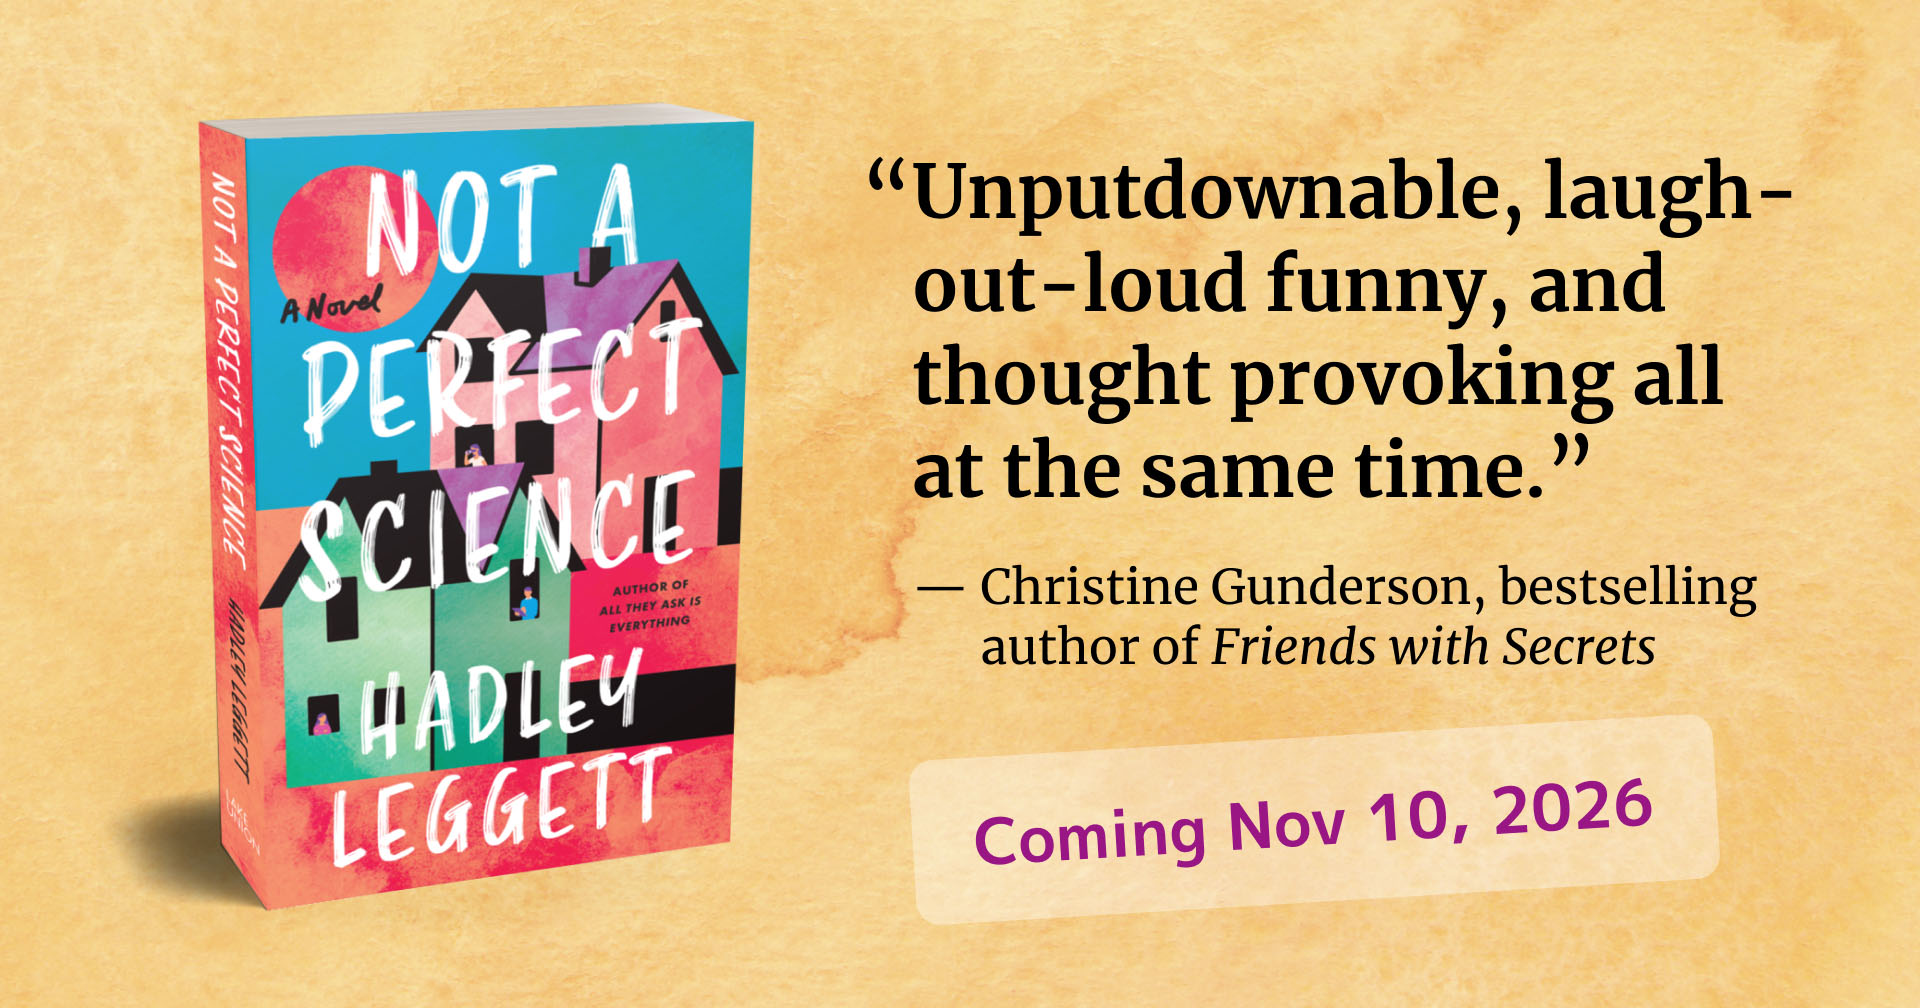
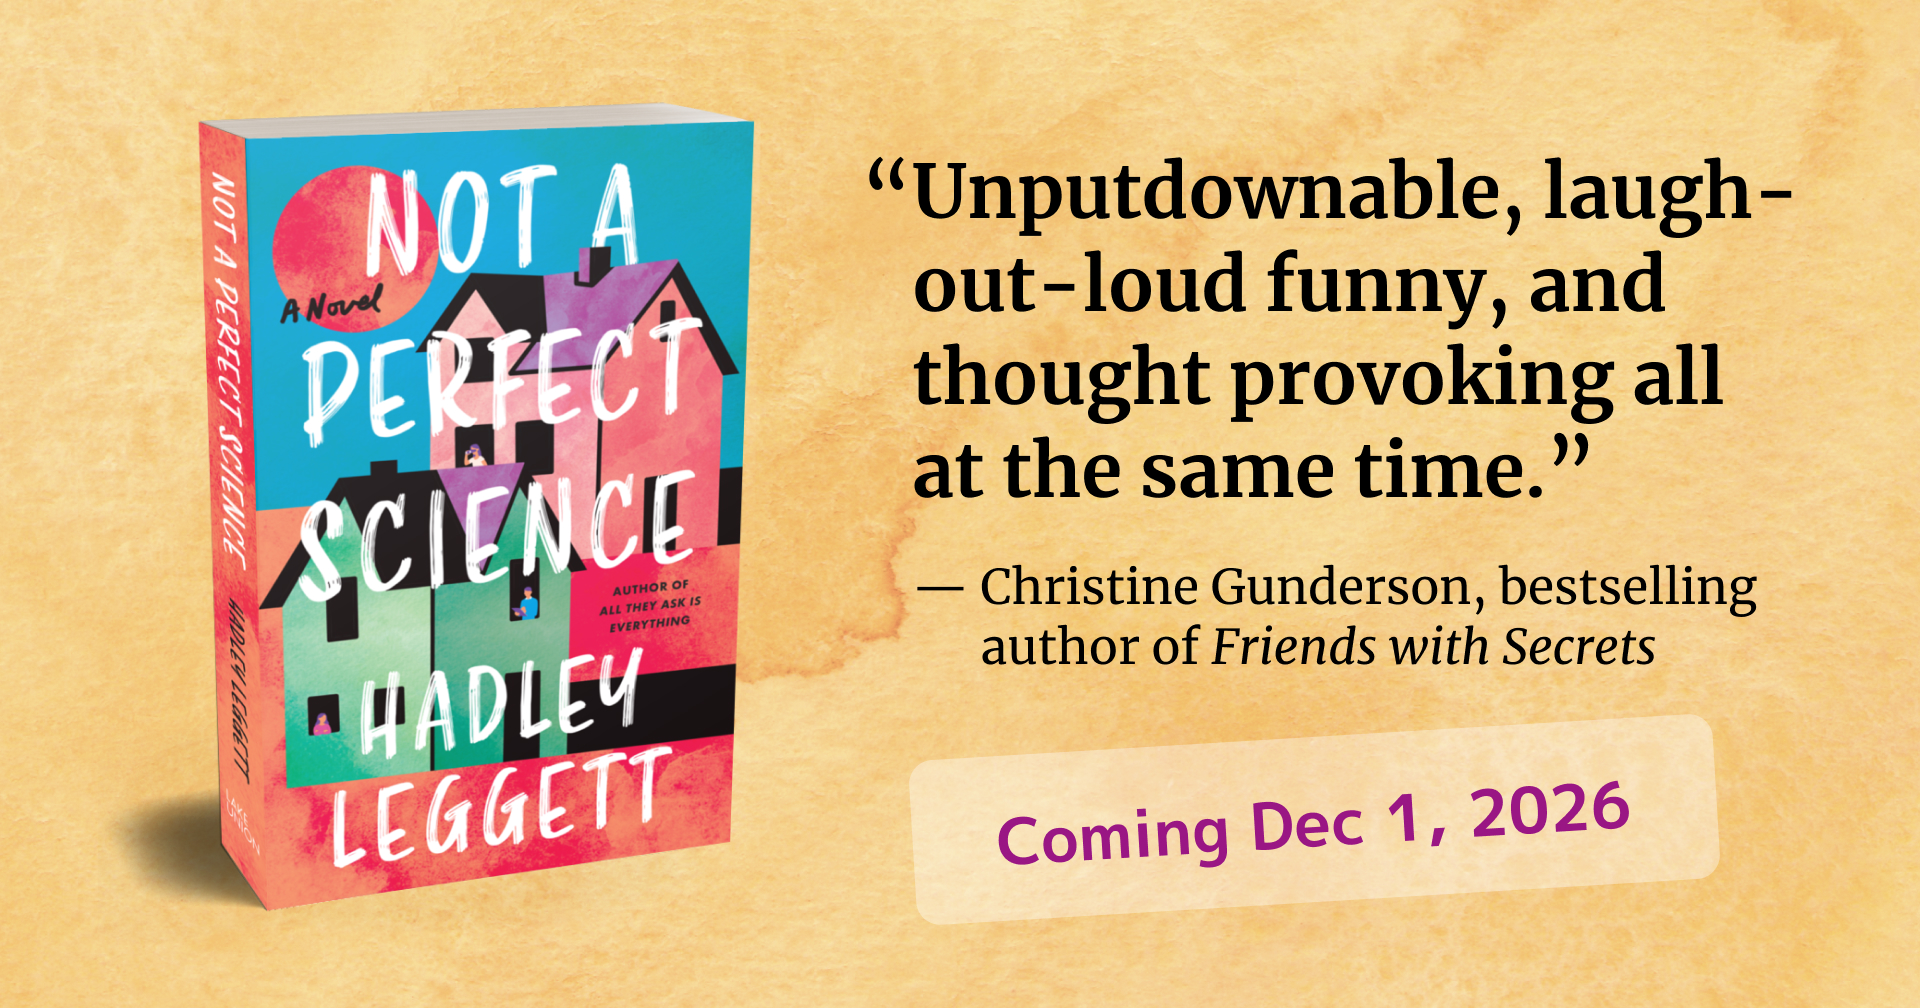
v7.1
Update launch date

Changed region(s): [[0.5, 0.7688, 0.875, 0.8611]]

diff --git a/index.html b/index.html
@@ -182,7 +182,7 @@
 
             <a href="#order" class="large button">
               Where to pre-order
-              <div>Coming November 10, 2026</div>
+              <div>Coming December 1, 2026</div>
             </a>
           </div>
         </div>
